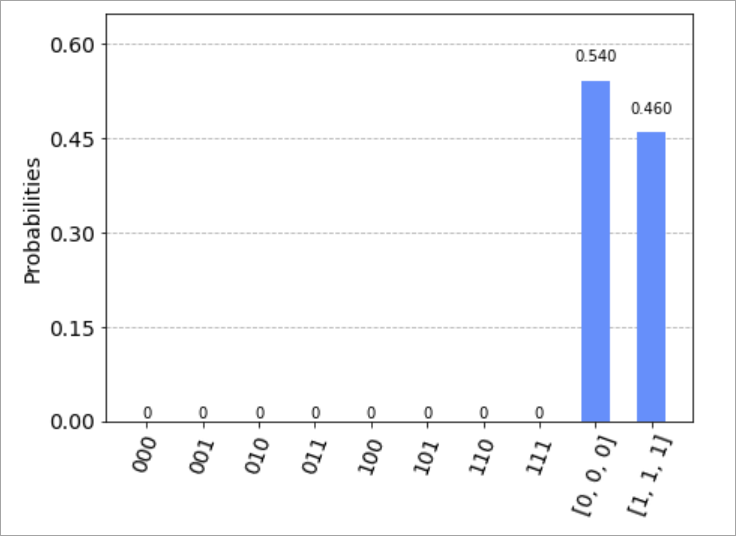
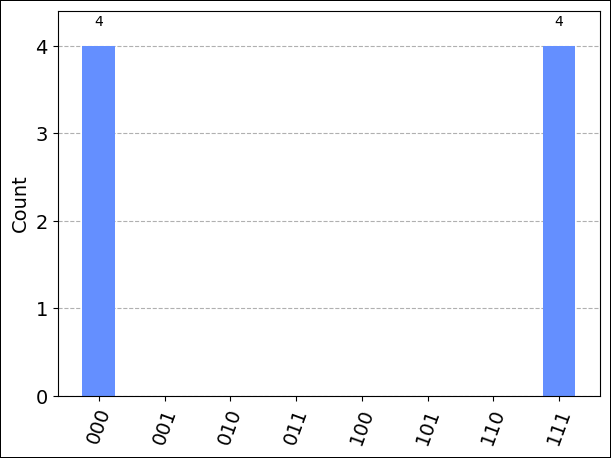
add new function

diff --git a/articles/includes/quickstart-qiskit-include-local.md b/articles/includes/quickstart-qiskit-include-local.md
@@ -37,6 +37,7 @@ In the first cell of your notebook, run the following code to load the required 
 
 ```python
 import azure.quantum
+from azure.quantum import Workspace 
 from qiskit import QuantumCircuit
 from qiskit.visualization import plot_histogram
 from azure.quantum.qiskit import AzureQuantumProvider
@@ -151,7 +152,7 @@ result. The following cell submits a job that runs the circuit with
 100 shots:
 
 ```python
-job = simulator_backend.run(circuit, shots=100)
+job = simulator_backend.run(circuit, shots=8)
 job_id = job.id()
 print("Job id", job_id)
 ```
@@ -168,7 +169,7 @@ print(result)
 ```
 
 ```output
-Result(backend_name='ionq.simulator', backend_version='1', qobj_id='Qiskit Sample - 3-qubit GHZ circuit', job_id='00000000-0000-0000-0000-000000000000', success=True, results=[ExperimentResult(shots=100, success=True, meas_level=2, data=ExperimentResultData(counts={'000': 50, '111': 50}, probabilities={'000': 0.5, '111': 0.5}), header=QobjExperimentHeader(meas_map='[0, 1, 2]', name='Qiskit Sample - 3-qubit GHZ circuit', num_qubits='3', qiskit='True'))])
+Result(backend_name='ionq.simulator', backend_version='1', qobj_id='Qiskit Sample - 3-qubit GHZ circuit', job_id='00000000-0000-0000-0000-000000000000', success=True, results=[ExperimentResult(shots=8, success=True, meas_level=2, data=ExperimentResultData(counts={'000': 4, '111': 4}, memory=['000', '000', '000', '000', '111', '111', '111', '111'], probabilities={'000': 0.5, '111': 0.5}), header=QobjExperimentHeader(name='Qiskit Sample - 3-qubit GHZ circuit', num_qubits=3, metadata={}), status=JobStatus.DONE, name='Qiskit Sample - 3-qubit GHZ circuit')], date=None, status=None, header=None, error_data=None)
 ```
 
 Because the result is an object native to the Qiskit package, you can use
@@ -184,7 +185,7 @@ plot_histogram(counts)
 ```
 
 ```output
-{'000': 50, '001': 0, '010': 0, '011': 0, '100': 0, '101': 0, '110': 0, '111': 50}
+{'000': 4, '001': 0, '010': 0, '011': 0, '100': 0, '101': 0, '110': 0, '111': 4}
 ```
 
 ![Qiskit circuit result on IonQ Simulator](../media/azure-quantum-qiskit-ionq-result-1.png)
@@ -221,10 +222,10 @@ For the most current pricing details, see [IonQ Pricing](xref:microsoft.quantum.
 #### Run on IonQ QPU
 
 To connect to real hardware (a [Quantum Processor Unit](xref:microsoft.quantum.target-profiles#quantum-processing-units-qpu-different-profiles) (QPU)), simply
-provide the name of the target `"ionq.qpu"` to the [`get_backend`](xref:azure.quantum.qiskit.AzureQuantumProvider) method:
+provide the name of the target `"ionq.qpu.aria-1"` to the [`get_backend`](xref:azure.quantum.qiskit.AzureQuantumProvider) method:
 
 ```python
-qpu_backend = provider.get_backend("ionq.qpu")
+qpu_backend = provider.get_backend("ionq.qpu.aria-1")
 ```
 
 Submit the circuit to run on Azure Quantum, get the results, and run `plot_histogram` to plot the results.
@@ -252,7 +253,7 @@ plot_histogram(counts)
 ```output
 Job id 00000000-0000-0000-0000-000000000000
 Job Status: job has successfully run
-Result(backend_name='ionq.simulator', backend_version='1', qobj_id='Qiskit Sample - 3-qubit GHZ circuit', job_id='00000000-0000-0000-0000-000000000000', success=True, results=[ExperimentResult(shots=1024, success=True, meas_level=2, data=ExperimentResultData(counts={'0': 505, '1': 6, '2': 1, '3': 1, '4': 1, '5': 10, '6': 11, '7': 488}, probabilities={'0': 0.4932, '1': 0.0059, '2': 0.001, '3': 0.001, '4': 0.001, '5': 0.0098, '6': 0.0117, '7': 0.4766}), header=QobjExperimentHeader(name='Qiskit Sample - 3-qubit GHZ circuit', num_qubits='3', qiskit='True'))])
+Result(backend_name='ionq.qpu.aria-1', backend_version='1', qobj_id='Qiskit Sample - 3-qubit GHZ circuit', job_id='00000000-0000-0000-0000-000000000000', success=True, results=[ExperimentResult(shots=1024, success=True, meas_level=2, data=ExperimentResultData(counts={'0': 505, '1': 6, '2': 1, '3': 1, '4': 1, '5': 10, '6': 11, '7': 488}, probabilities={'0': 0.4932, '1': 0.0059, '2': 0.001, '3': 0.001, '4': 0.001, '5': 0.0098, '6': 0.0117, '7': 0.4766}), header=QobjExperimentHeader(name='Qiskit Sample - 3-qubit GHZ circuit', num_qubits='3', qiskit='True'))])
 {'000': 505, '001': 6, '010': 1, '011': 1, '100': 1, '101': 10, '110': 11, '111': 488}
 ```
 
@@ -271,7 +272,7 @@ syntax_backend = provider.get_backend("quantinuum.sim.h1-1sc")
 
 You can now run the program via the Azure Quantum service and get the
 result. The following cell submits a job that runs the circuit with
-1024 shots:
+eight shots:
 
 ```python
 # Submit the circuit to run on Azure Quantum
@@ -289,9 +290,7 @@ plot_histogram(counts)
 ```
 
 ```output
-Job id 00000000-0000-0000-0000-000000000000
-Job Status: job has successfully run
-Result(backend_name='quantinuum.qpu.h1-1sc', backend_version='1', qobj_id='Qiskit Sample - 3-qubit GHZ circuit', job_id='00000000-0000-0000-0000-000000000000', success=True, results=[ExperimentResult(shots=1024, success=True, meas_level=2, data=ExperimentResultData(counts={'000': 1024}, probabilities={'000': 1.0}), header=QobjExperimentHeader(name='Qiskit Sample - 3-qubit GHZ circuit'))])
+Result(backend_name='quantinuum.sim.h1-1sc', backend_version='1', qobj_id='Qiskit Sample - 3-qubit GHZ circuit', job_id='00000000-0000-0000-0000-000000000000', success=True, results=[ExperimentResult(shots=8, success=True, meas_level=2, data=ExperimentResultData(counts={'000': 8}, memory=['000', '000', '000', '000', '000', '000', '000', '000'], probabilities={'000': 1.0}), header=QobjExperimentHeader(name='Qiskit Sample - 3-qubit GHZ circuit', num_qubits=3, metadata={}), status=JobStatus.DONE, name='Qiskit Sample - 3-qubit GHZ circuit')], date=None, status=None, header=None, error_data=None)
 {'000': 8, '001': 0, '010': 0, '011': 0, '100': 0, '101': 0, '110': 0, '111': 0}
 ```
 
@@ -376,7 +375,7 @@ qvm_backend = provider.get_backend("rigetti.sim.qvm")
 
 You can now run the program via the Azure Quantum service and get the
 result. The following cell submits a job that runs the circuit with
-1024 shots:
+eight shots:
 
 ```python
 # Submit the circuit to run on Azure Quantum
@@ -394,10 +393,9 @@ plot_histogram(counts)
 ```
 
 ```output
-Job id 00000000-0000-0000-0000-000000000000
-Job Status: job has successfully run
-Result(backend_name='rigetti.sim.qvm"', backend_version='1', qobj_id='Qiskit Sample - 3-qubit GHZ circuit', job_id='00000000-0000-0000-0000-000000000000', success=True, results=[ExperimentResult(shots=1024, success=True, meas_level=2, data=ExperimentResultData(counts={'000': 1024}, probabilities={'000': 1.0}), header=QobjExperimentHeader(name='Qiskit Sample - 3-qubit GHZ circuit'))])
-{'000': 8, '001': 0, '010': 0, '011': 0, '100': 0, '101': 0, '110': 0, '111': 0}
+Result(backend_name='rigetti.sim.qvm', backend_version='1', qobj_id='Qiskit Sample - 3-qubit GHZ circuit', job_id='00000000-0000-0000-0000-000000000000', success=True, results=[ExperimentResult(shots=8, success=True, meas_level=2, data=ExperimentResultData(counts={'000': 4, '111': 4}, memory=['000', '111', '111', '000', '000', '000', '111', '111'], probabilities={'000': 0.5, '111': 0.5}), header=QobjExperimentHeader(name='Qiskit Sample - 3-qubit GHZ circuit', num_qubits=3, metadata={}), status=JobStatus.DONE, name='Qiskit Sample - 3-qubit GHZ circuit')], date=None, status=None, header=None, error_data=None)
+{'000': 4, '001': 0, '010': 0, '011': 0, '100': 0, '101': 0, '110': 0, '111': 4}
+
 ```
 
 ![Qiskit circuit result on Rigetti QVM simulator](../media/azure-quantum-qiskit-rigetti-qvm-result.png)
@@ -409,7 +407,7 @@ result.get_memory(circuit)
 ```
 
 ```output
-['000', '000', '000', '000', '000', '000', '000', '000']
+['000', '111', '111', '000', '000', '000', '111', '111']
 ```
 
 #### Run on a Rigetti QPU 

diff --git a/articles/includes/quickstart-qiskit-include-portal.md b/articles/includes/quickstart-qiskit-include-portal.md
@@ -141,7 +141,7 @@ print(result)
 ```
 
 ```output
-Result(backend_name='ionq.simulator', backend_version='1', qobj_id='Qiskit Sample - 3-qubit GHZ circuit', job_id='7d909574-98d4-11ec-b382-00155d957f5d', success=True, results=[ExperimentResult(shots=100, success=True, meas_level=2, data=ExperimentResultData(counts=defaultdict(<class 'int'>, {'000': 50, '111': 50}), probabilities=defaultdict(<class 'int'>, {'000': 0.5, '111': 0.5})), header=QobjExperimentHeader(meas_map='[0, 1, 2]', name='Qiskit Sample - 3-qubit GHZ circuit', num_qubits='3', qiskit='True'))])
+Result(backend_name='ionq.simulator', backend_version='1', qobj_id='Qiskit Sample - 3-qubit GHZ circuit', job_id='00000000-0000-0000-0000-000000000000', success=True, results=[ExperimentResult(shots=8, success=True, meas_level=2, data=ExperimentResultData(counts={'000': 4, '111': 4}, memory=['000', '000', '000', '000', '111', '111', '111', '111'], probabilities={'000': 0.5, '111': 0.5}), header=QobjExperimentHeader(name='Qiskit Sample - 3-qubit GHZ circuit', num_qubits=3, metadata={}), status=JobStatus.DONE, name='Qiskit Sample - 3-qubit GHZ circuit')], date=None, status=None, header=None, error_data=None)
 ```
 
 Because this `result` type is an object native to the Qiskit package, you can use
@@ -286,7 +286,8 @@ print(result)
 ```
 
 ```output
-Result(backend_name='quantinuum.sim.h1-1sc', backend_version='1', qobj_id='Qiskit Sample - 3-qubit GHZ circuit', job_id='89511b08-9691-11ec-be32-00155d00ae89', success=True, results=[ExperimentResult(shots=100, success=True, meas_level=2, data=ExperimentResultData(counts={'000': 100}, probabilities={'000': 1.0}), header=QobjExperimentHeader(name='Qiskit Sample - 3-qubit GHZ circuit'))])
+Result(backend_name='quantinuum.sim.h1-1sc', backend_version='1', qobj_id='Qiskit Sample - 3-qubit GHZ circuit', job_id='00000000-0000-0000-0000-000000000000', success=True, results=[ExperimentResult(shots=8, success=True, meas_level=2, data=ExperimentResultData(counts={'000': 8}, memory=['000', '000', '000', '000', '000', '000', '000', '000'], probabilities={'000': 1.0}), header=QobjExperimentHeader(name='Qiskit Sample - 3-qubit GHZ circuit', num_qubits=3, metadata={}), status=JobStatus.DONE, name='Qiskit Sample - 3-qubit GHZ circuit')], date=None, status=None, header=None, error_data=None)
+{'000': 8, '001': 0, '010': 0, '011': 0, '100': 0, '101': 0, '110': 0, '111': 0}
 ```
 
 Because this `result` type is an object native to the Qiskit package, you can use
@@ -435,7 +436,8 @@ print(result)
 ```
 
 ```output
-Result(backend_name='rigetti.sim.qvm', backend_version='1', qobj_id='Qiskit Sample - 3-qubit GHZ circuit', job_id='5de5e2a0-39e3-11ed-bd56-00155d76e336', success=True, results=[ExperimentResult(shots=100, success=True, meas_level=2, data=ExperimentResultData(counts={'[0, 0, 0]': 54, '[1, 1, 1]': 46}, probabilities={'[0, 0, 0]': 0.59, '[1, 1, 1]': 0.41}), header=QobjExperimentHeader(metadata=None, name='Qiskit Sample - 3-qubit GHZ circuit', num_qubits='3', qiskit='True'))])
+Result(backend_name='rigetti.sim.qvm', backend_version='1', qobj_id='Qiskit Sample - 3-qubit GHZ circuit', job_id='00000000-0000-0000-0000-000000000000', success=True, results=[ExperimentResult(shots=8, success=True, meas_level=2, data=ExperimentResultData(counts={'000': 4, '111': 4}, memory=['000', '111', '111', '000', '000', '000', '111', '111'], probabilities={'000': 0.5, '111': 0.5}), header=QobjExperimentHeader(name='Qiskit Sample - 3-qubit GHZ circuit', num_qubits=3, metadata={}), status=JobStatus.DONE, name='Qiskit Sample - 3-qubit GHZ circuit')], date=None, status=None, header=None, error_data=None)
+{'000': 4, '001': 0, '010': 0, '011': 0, '100': 0, '101': 0, '110': 0, '111': 4}
 ```
 
 Because this `result` type is an object native to the Qiskit package, you can use
@@ -463,7 +465,7 @@ result.get_memory(circuit)
 ```
 
 ```output
-['000', '000', '000', '000', '111', '111', '111', '111']
+['000', '111', '111', '000', '000', '000', '111', '111']
 ```
 
 #### Run on Rigetti QPU
